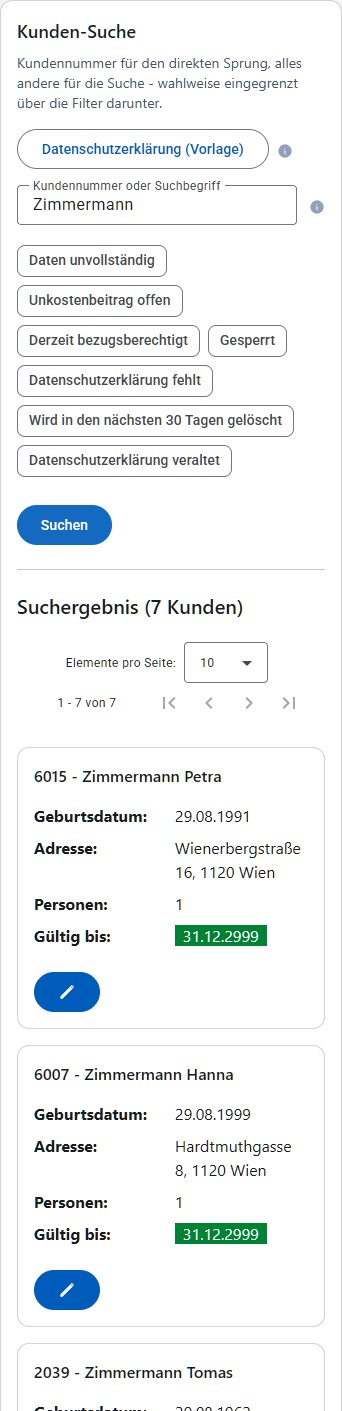
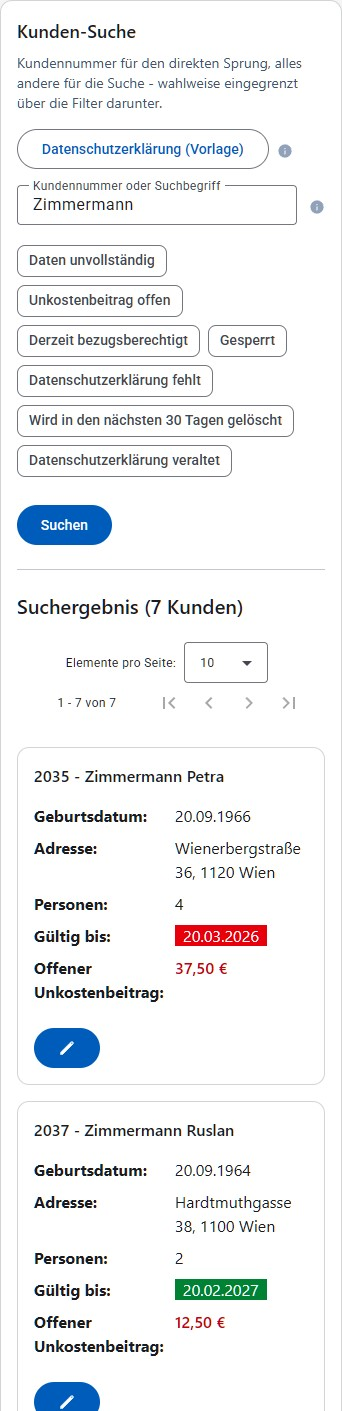
feat(customer): show the open cost contribution as a column in the customer search

diff --git a/frontend/src/main/webapp/src/app/modules/customer/views/customer-search/customer-search.component.spec.ts b/frontend/src/main/webapp/src/app/modules/customer/views/customer-search/customer-search.component.spec.ts
@@ -562,6 +562,45 @@ describe('CustomerSearchComponent', () => {
     expect(fixture.debugElement.query(By.css('[testid="searchresult-personsCount-0"]')).nativeElement.textContent).toBe('2');
   });
 
+  describe('open cost contribution', () => {
+
+    it('lists the pending amount as a column, formatted as euro', () => {
+      apiService.searchCustomer.mockReturnValue(of({
+        ...searchCustomerMockResponse,
+        items: [{...testCustomer, pendingCostContribution: 12.5}]
+      }));
+      const {fixture} = createComponent();
+      fixture.detectChanges();
+
+      const cell = fixture.debugElement.query(By.css('[testid="searchresult-pendingCostContribution-0"]')).nativeElement;
+      expect(cell.textContent.trim()).toMatch(/^12,50\s€$/);
+    });
+
+    it.each([undefined, 0])('shows a dash instead of an amount when the pending amount is %s', (amount) => {
+      apiService.searchCustomer.mockReturnValue(of({
+        ...searchCustomerMockResponse,
+        items: [{...testCustomer, pendingCostContribution: amount}]
+      }));
+      const {fixture} = createComponent();
+      fixture.detectChanges();
+
+      const cell = fixture.debugElement.query(By.css('[testid="searchresult-pendingCostContribution-0"]')).nativeElement;
+      expect(cell.textContent.trim()).toBe('-');
+    });
+
+    it('shows the amount on the mobile card too', () => {
+      apiService.searchCustomer.mockReturnValue(of({
+        ...searchCustomerMockResponse,
+        items: [{...testCustomer, pendingCostContribution: 12.5}]
+      }));
+      const {fixture} = createComponent();
+      fixture.detectChanges();
+
+      const cell = fixture.debugElement.query(By.css('[testid="searchresult-card-pendingCostContribution-42"]')).nativeElement;
+      expect(cell.textContent.trim()).toMatch(/^12,50\s€$/);
+    });
+  });
+
   it('downloads the reference-less privacy notice template', () => {
     const response = new HttpResponse({
       status: 200,

diff --git a/frontend/src/main/webapp/src/app/modules/customer/views/customer-search/customer-search.component.html b/frontend/src/main/webapp/src/app/modules/customer/views/customer-search/customer-search.component.html
@@ -149,6 +149,17 @@
                 </td>
               </ng-container>
 
+              <ng-container matColumnDef="pendingCostContribution">
+                <th mat-header-cell *matHeaderCellDef class="px-6 py-2 text-right">Offener Unkostenbeitrag</th>
+                <td mat-cell *matCellDef="let customer; let i = index" [attr.testid]="'searchresult-pendingCostContribution-' + i" class="px-4 py-2 text-right">
+                  @if (hasPendingCostContribution(customer)) {
+                    <span class="font-semibold text-red-700">{{customer.pendingCostContribution | currency}}</span>
+                  } @else {
+                    -
+                  }
+                </td>
+              </ng-container>
+
               <ng-container matColumnDef="actions">
                 <th mat-header-cell *matHeaderCellDef class="px-6 py-2 text-left">Aktionen</th>
                 <td mat-cell *matCellDef="let customer" class="px-4 py-2 relative">
@@ -196,6 +207,14 @@
                       <div>
                         @if (customer.validUntil) {
                           <span class="text-white px-2" [ngClass]="isValid(customer) ? 'bg-green-700' : 'bg-red-600'">{{customer.validUntil | date : 'dd.MM.yyyy'}}</span>
+                        } @else {
+                          -
+                        }
+                      </div>
+                      <div class="font-bold">Offener Unkostenbeitrag:</div>
+                      <div [attr.testid]="'searchresult-card-pendingCostContribution-' + customer.id">
+                        @if (hasPendingCostContribution(customer)) {
+                          <span class="font-semibold text-red-700">{{customer.pendingCostContribution | currency}}</span>
                         } @else {
                           -
                         }

diff --git a/frontend/src/main/webapp/cypress/e2e/customer-search.cy.ts b/frontend/src/main/webapp/cypress/e2e/customer-search.cy.ts
@@ -230,9 +230,29 @@ describe('Customer Search', () => {
       cy.byTestId('filter-costContribution').click();
       cy.wait('@costContributionSearch');
 
+      // The open amount itself is a column of the result, not just the reason the row is listed.
+      cy.get(`a[href$="/kunden/detail/${customerId}"]`).filterDisplayed()
+        .closest('tr')
+        .find('[testid^="searchresult-pendingCostContribution-"]')
+        .should('contain.text', '€');
+
       clickSearchAndOpenExpectedResult(customerId, {alreadySearched: true});
 
       cy.request('PUT', `/api/households/${customerId}/cost-contribution`, {amount: 0});
+    });
+  });
+
+  it('shows a dash instead of an amount for a customer without an open cost contribution', () => {
+    cy.createDummyCustomer().then((response) => {
+      const customer = response.body.data;
+
+      cy.byTestId('searchInputText').type(customer.lastname);
+      clickSearchAndWaitForResult();
+
+      cy.get(`a[href$="/kunden/detail/${customer.id}"]`).filterDisplayed()
+        .closest('tr')
+        .find('[testid^="searchresult-pendingCostContribution-"]')
+        .should(($cell) => expect($cell.text().trim()).to.equal('-'));
     });
   });
 

diff --git a/frontend/src/main/webapp/src/app/modules/customer/views/customer-search/customer-search.component.ts b/frontend/src/main/webapp/src/app/modules/customer/views/customer-search/customer-search.component.ts
@@ -307,6 +307,10 @@ export class CustomerSearchComponent {
     return !!customer.validUntil && !dayjs(customer.validUntil).startOf('day').isBefore(dayjs().startOf('day'));
   }
 
+  hasPendingCostContribution(customer: CustomerData): boolean {
+    return (customer.pendingCostContribution ?? 0) > 0;
+  }
+
   personsCount(customer: CustomerData): number {
     return 1 + (customer.additionalPersons ?? []).filter(person => !person.excludeFromHousehold).length;
   }
@@ -399,7 +403,9 @@ export class CustomerSearchComponent {
   }
 
   // columns for mat-table
-  displayedColumns = ['icon', 'id', 'name', 'birthDate', 'address', 'personsCount', 'issuedAt', 'validUntil', 'actions'];
+  displayedColumns = [
+    'icon', 'id', 'name', 'birthDate', 'address', 'personsCount', 'issuedAt', 'validUntil', 'pendingCostContribution', 'actions'
+  ];
 
   protected readonly pageSizeOptions = PAGE_SIZE_OPTIONS;
 }

diff --git a/docs/userguide/kunden.md b/docs/userguide/kunden.md
@@ -20,7 +20,7 @@ Zusätzlich lässt sich über die Filter-Chips "Daten unvollständig", "Unkosten
 
 Beim Öffnen der Seite werden bereits die ersten Kunden angezeigt – man muss also nicht erst suchen, um überhaupt etwas zu sehen. Ein Suchbegriff oder ein Filter grenzt diese Liste dann ein. Suchbegriff, Filter und die aktuelle Seite bleiben in der Adresszeile erhalten: Wird ein Kunde aus dem Ergebnis geöffnet und über "Zurück" wieder zur Suche zurückgekehrt, ist dasselbe Ergebnis - inklusive Filter und Seite - sofort wieder da, ohne erneut suchen zu müssen.
 
-Das Suchergebnis zeigt eine Tabelle mit Kundennummer, Name, Geburtsdatum, Adresse, Personenanzahl, Ausstellungs- und Gültigkeitsdatum. Das Gültigkeitsdatum ist wie in der Detailansicht grün (aufrecht) oder rot (abgelaufen) hinterlegt, ein Schloss-Symbol markiert gesperrte Kunden. Die gesamte Zeile ist anklickbar und öffnet die Detailansicht; über den Stift in den Aktionen gelangt man direkt zum Bearbeiten - bei einem gesperrten Kunden ist der Stift deaktiviert (Tooltip "Kunde ist gesperrt"). Bei vielen Treffern kann über die Seitennavigation unterhalb der Ergebnisliste geblättert und die Anzahl der Elemente pro Seite angepasst werden. Ein Klick auf eine der Spaltenüberschriften Nr., Name, Geb. Datum, Ausgestellt am oder Gültig bis sortiert die Tabelle danach statt nach den besten Treffern zuerst; ein erneuter Klick auf dieselbe Spalte kehrt die Richtung um.
+Das Suchergebnis zeigt eine Tabelle mit Kundennummer, Name, Geburtsdatum, Adresse, Personenanzahl, Ausstellungs- und Gültigkeitsdatum sowie dem offenen Unkostenbeitrag. Das Gültigkeitsdatum ist wie in der Detailansicht grün (aufrecht) oder rot (abgelaufen) hinterlegt, ein Schloss-Symbol markiert gesperrte Kunden. Der offene Unkostenbeitrag steht als roter Betrag in der Spalte "Offener Unkostenbeitrag"; bei Kunden ohne offenen Betrag steht dort ein Strich, sodass die Kunden mit offener Schuld sofort auffallen - auch ohne den Filter "Unkostenbeitrag offen". Die gesamte Zeile ist anklickbar und öffnet die Detailansicht; über den Stift in den Aktionen gelangt man direkt zum Bearbeiten - bei einem gesperrten Kunden ist der Stift deaktiviert (Tooltip "Kunde ist gesperrt"). Bei vielen Treffern kann über die Seitennavigation unterhalb der Ergebnisliste geblättert und die Anzahl der Elemente pro Seite angepasst werden. Ein Klick auf eine der Spaltenüberschriften Nr., Name, Geb. Datum, Ausgestellt am oder Gültig bis sortiert die Tabelle danach statt nach den besten Treffern zuerst; ein erneuter Klick auf dieselbe Spalte kehrt die Richtung um.
 
 ![Suchergebnis](images/kunden-suchen-ergebnis.jpg)
 

diff --git a/CHANGELOG.md b/CHANGELOG.md
@@ -5,6 +5,9 @@ Diese Datei dokumentiert die nennenswerten Änderungen an Tafel Admin auf Deutsc
 Jeder Eintrag ist eine einzelne, nicht umgebrochene Zeile, die mit `- ` beginnt - die Release-Pipeline erkennt einen neuen Changelog-Eintrag genau daran.
 
 ## [Unreleased]
+- Die Kunden-Suche zeigt in einer neuen Spalte "Offener Unkostenbeitrag" den offenen Betrag je Kunde an - auch in der Kartenansicht auf schmalen Bildschirmen -, ein Strich steht bei Kunden ohne offenen Betrag.
+
+## [1.19.7] - 2026-09-18
 - Ein fehlgeschlagener Klick auf "Tag starten" oder "Annehmen" im Check-in erzeugt keinen zusätzlichen, nichtssagenden Fehlereintrag "Fehler: [object Object]" im Protokoll mehr, und unerwartete Fehler nennen jetzt Status und Adresse der Anfrage.
 - Die gedruckte Bezugskarte passt jetzt auch bei langen Namen (z. B. bei "Ausgestellt von") in ihren Streifen, und die rote Trennlinie der Außenseite reicht wieder bis zur Schnittkante.
 
